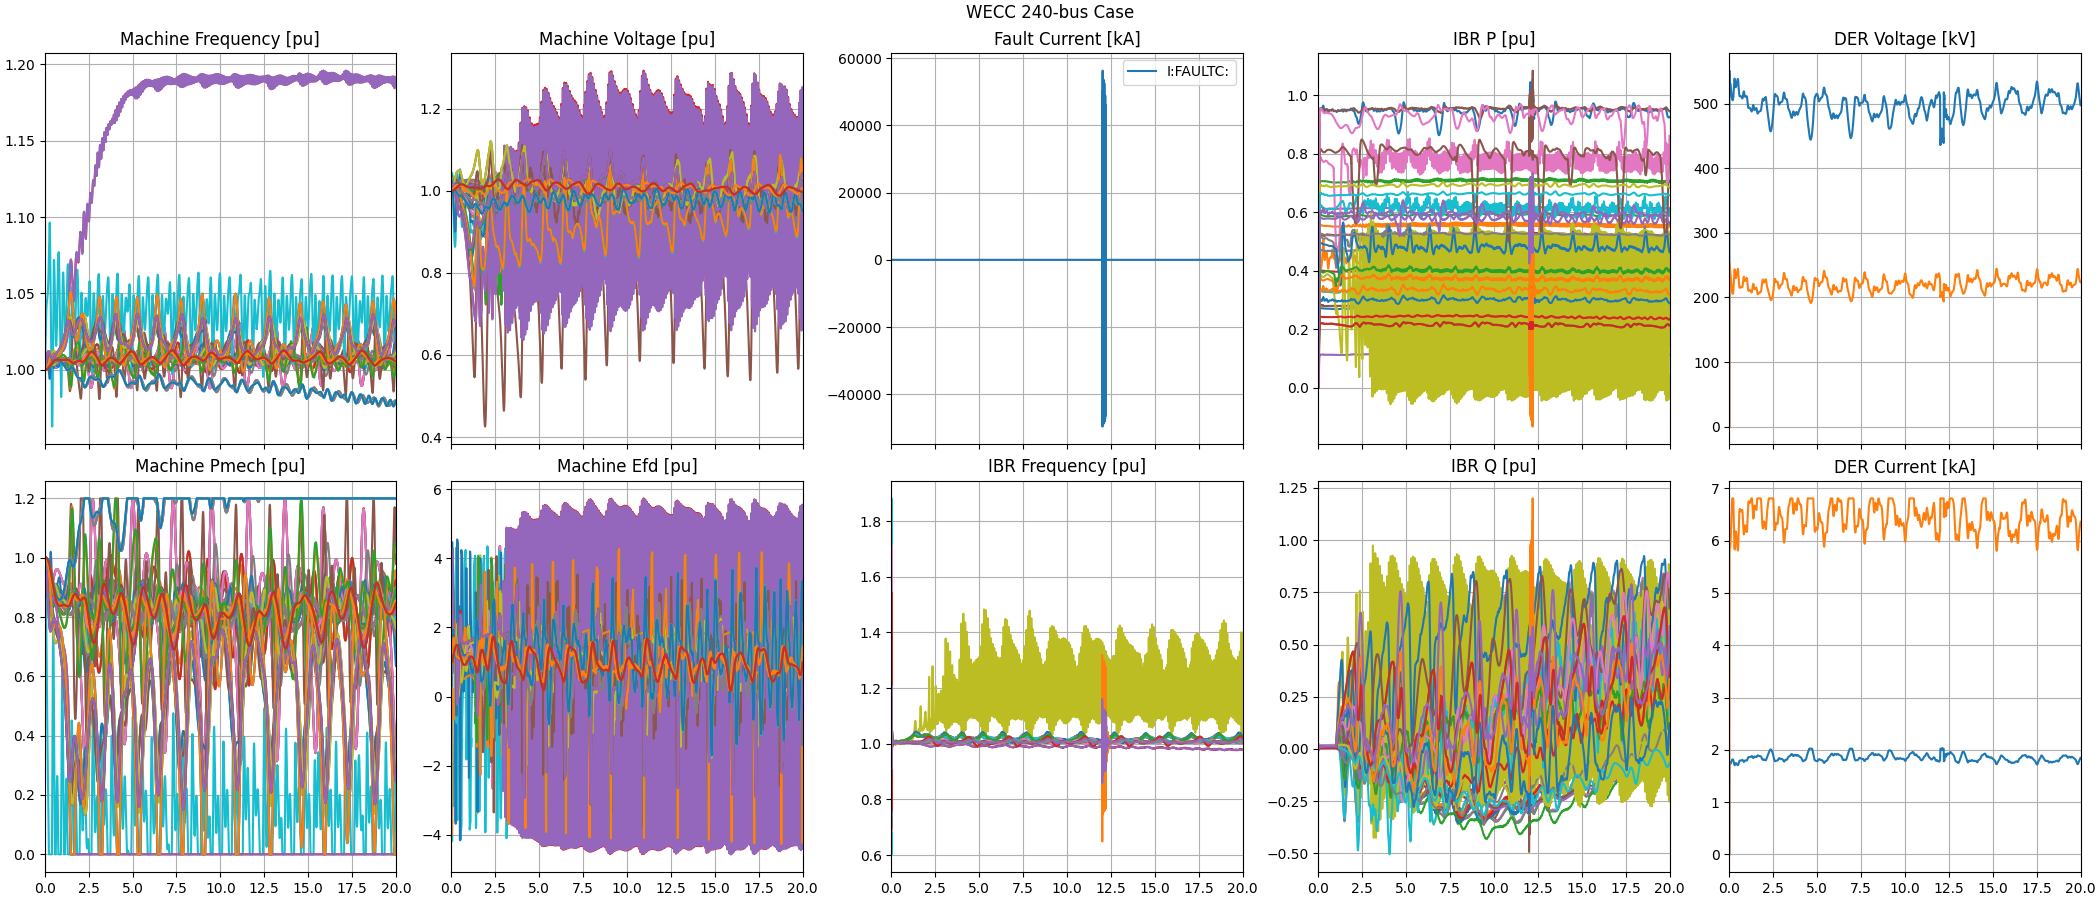
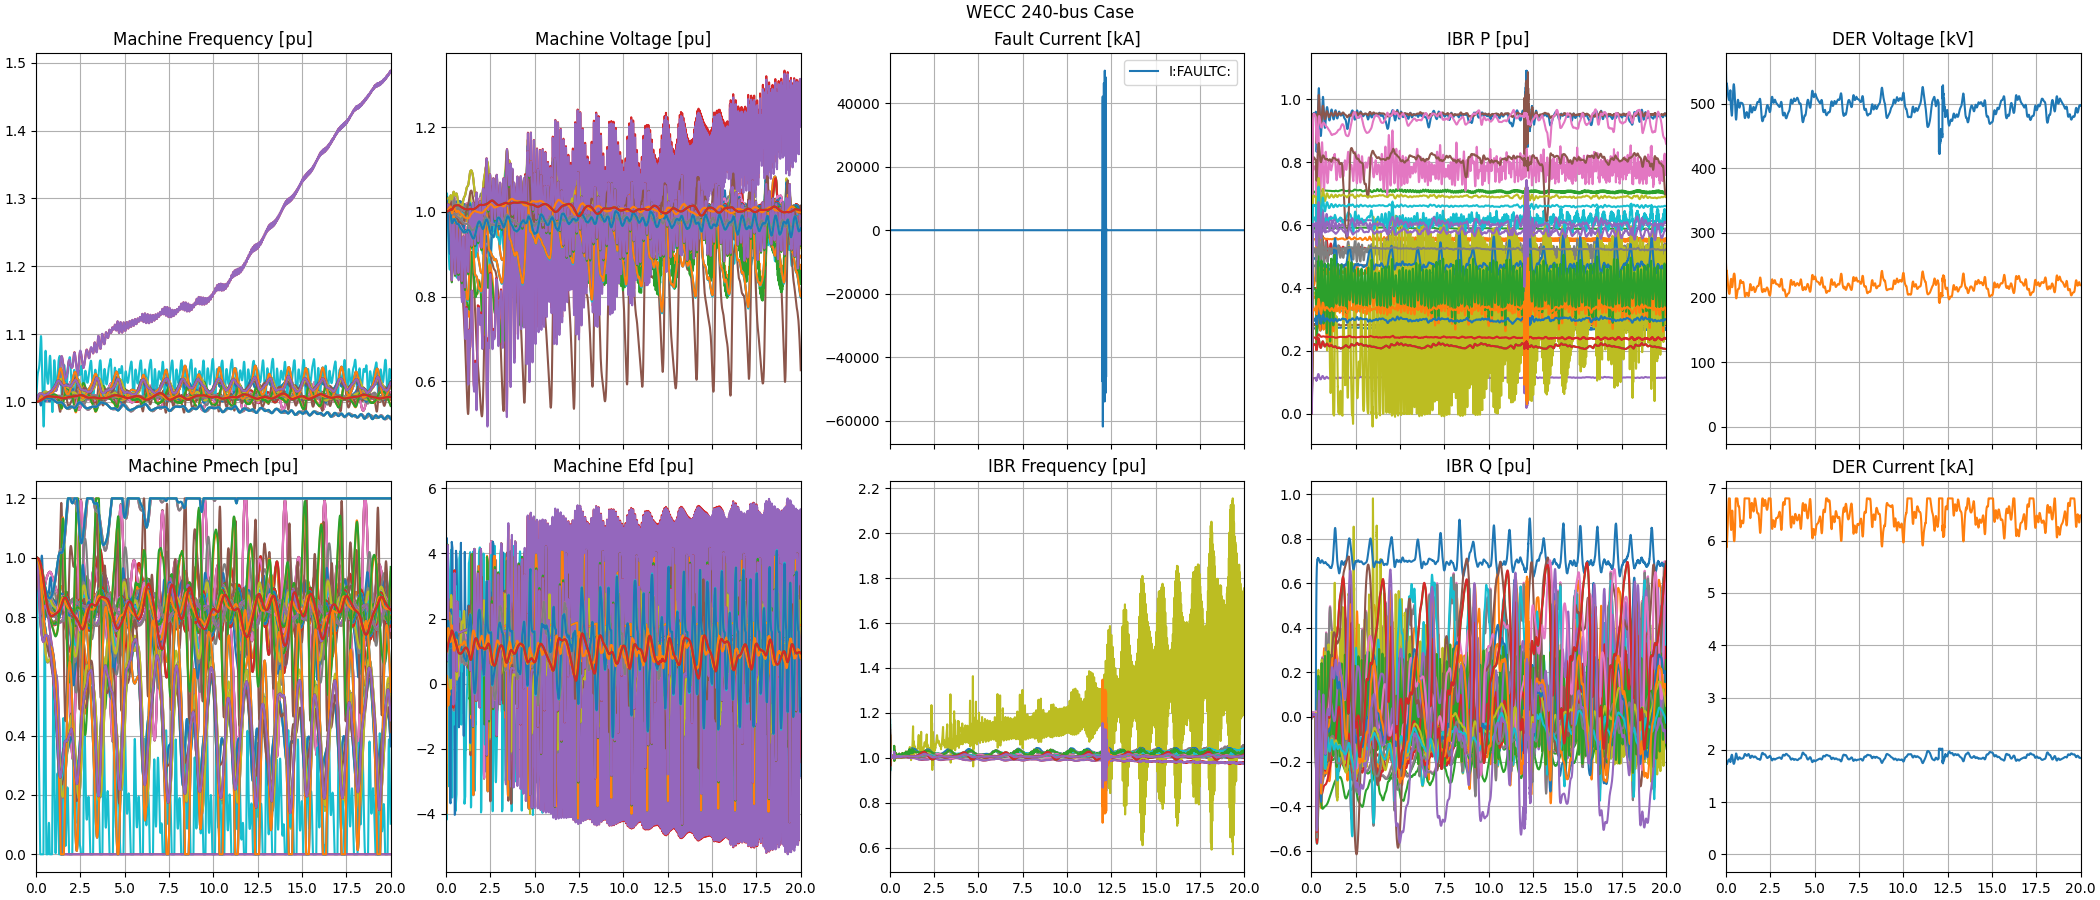
updated results with new Kp, Ki, and theta0

diff --git a/atp/data/README.md b/atp/data/README.md
@@ -45,7 +45,7 @@ This example demonstrates a single-line-to-ground fault (SLGF) applied and
 cleared on the IEEE 39-bus test system, which is generally representative 
 of New England. It includes 9 synchronous machines and 1 IBR. The purpose 
 of this example is to demonstrate CIM extensions to remove the CIM 
-_Terminal_ class and the _Wecc_ dynamic models for IBR. 
+_Terminal_ class and the _Wecc_ dynamic models for IBR. (Kp=20, Ki=8 for all IBR)
 
 ![IEEE39 Network](ieee39_network.png)
 
@@ -59,11 +59,11 @@ States circa 1962. This example has 193 buses so that each generator has
 its own generator stepup transformer (GSU), i.e., no generators are 
 paralleled on the same bus. It includes 56 synchronous machines and 19 
 IBR. The purpose of this example is to demonstrate CIM extensions to 
-remove the CIM _Terminal_ class and the _Wecc_ dynamic models for IBR. 
+remove the CIM _Terminal_ class and the _Wecc_ dynamic models for IBR. (Kp=10, Ki=1 for all IBR)
 
 ![IEEE118 Network](ieee118_network.png)
 
-![SLGF Fault Results](IEEE118_IBR_12pctP.png)
+![SLGF Fault Results](IEEE118.png)
 
 ## WECC 240-bus Example with IBR
 
@@ -73,7 +73,7 @@ States. This example has 333 buses so that each generator has its own
 generator stepup transformer (GSU), i.e., no generators are paralleled on 
 the same bus. It includes 105 synchronous machines and 35 IBR. The purpose 
 of this example is to demonstrate CIM extensions to remove the CIM 
-_Terminal_ class and the _Wecc_ dynamic models for IBR.
+_Terminal_ class and the _Wecc_ dynamic models for IBR. (Kp=10, Ki=1 for all IBR)
  
 **TODO: this example has known errors under investigation.** 
 
